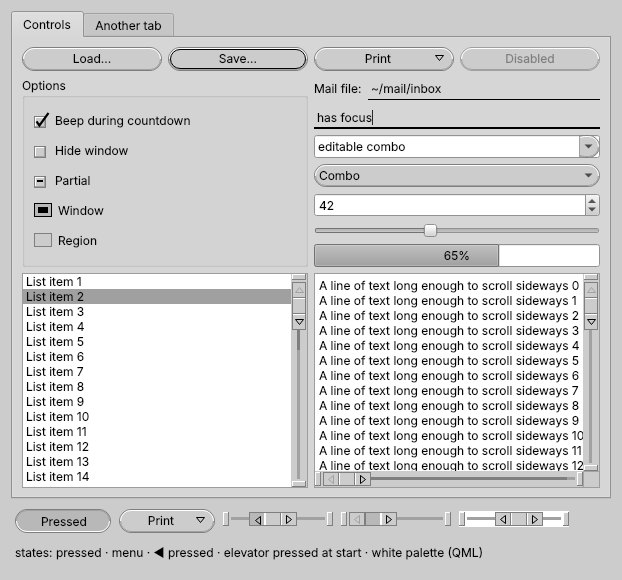
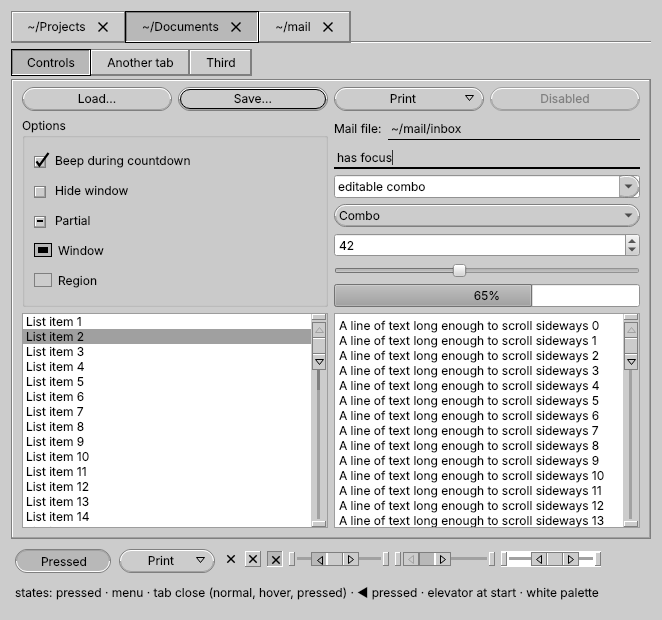
Tabs as OPEN LOOK exclusive settings

diff --git a/style/src/freelookstyle.cpp b/style/src/freelookstyle.cpp
@@ -11,6 +11,7 @@
 #include <QPainter>
 #include <QPainterPath>
 #include <QScrollBar>
+#include <QTabBar>
 #include <QStyleFactory>
 #include <QStyleOption>
 
@@ -25,6 +26,13 @@ constexpr int kAnchor = 6;             // length of the anchors at both ends
 constexpr int kAnchorGap = 2;          // gap between an anchor and the cable
 constexpr int kIndicator = 16;         // check box area (the check mark overflows inside it)
 constexpr int kCheckBox = 12;          // the check box itself
+constexpr int kTabGap = 3;             // gap between the tabs and the page below them
+
+bool isVerticalTab(QTabBar::Shape shape)
+{
+    return shape == QTabBar::RoundedWest || shape == QTabBar::RoundedEast
+        || shape == QTabBar::TriangularWest || shape == QTabBar::TriangularEast;
+}
 }
 
 FreeLookStyle::FreeLookStyle()
@@ -182,6 +190,44 @@ void FreeLookStyle::drawButton(const QStyleOptionButton *opt, QPainter *p) const
                    side, side * 0.6);
         triangle(p, tri, Qt::DownArrow, c.ink, sunken ? c.pressed : c.base);
     }
+}
+
+// ---------------------------------------------------------------------------- tabs
+//
+// OPEN LOOK had no tabs: property windows switched pages with a "Category"
+// menu button. FreeLook draws tabs as an OPEN LOOK exclusive setting, like
+// "Snap Type: [Window][Region][Screen]": raised rectangles side by side,
+// sharing a single line, and the current one sunken with a black outline.
+// The page sits in a plain frame a few pixels below, not attached to the tab.
+
+void FreeLookStyle::drawTab(const QStyleOptionTab *opt, QPainter *p) const
+{
+    const bool enabled = opt->state & State_Enabled;
+    const Colors c = colors(opt->palette, enabled);
+    const bool selected = opt->state & State_Selected;
+    const bool vertical = isVerticalTab(opt->shape);
+    QRect r = opt->rect;
+
+    // Every tab but the first steps 1 px over the previous one, so neighbors
+    // share a single line. The current tab is painted last, on top.
+    const bool first = opt->position == QStyleOptionTab::Beginning
+                    || opt->position == QStyleOptionTab::OnlyOneTab;
+    if (!first) {
+        if (vertical) {
+            r.adjust(0, -1, 0, 0);
+        } else if (opt->direction == Qt::RightToLeft) {
+            r.adjust(0, 0, 1, 0);
+        } else {
+            r.adjust(-1, 0, 0, 0);
+        }
+    }
+
+    box3D(p, r.adjusted(1, 1, -1, -1), c, selected);
+    p->save();
+    p->setPen(selected && enabled ? c.ink : (enabled ? c.dark : c.softShadow));
+    p->setBrush(Qt::NoBrush);
+    p->drawRect(r.adjusted(0, 0, -1, -1));
+    p->restore();
 }
 
 // ---------------------------------------------------------------------------- elevator scroll bar
@@ -371,6 +417,60 @@ void FreeLookStyle::drawPrimitive(PrimitiveElement element, const QStyleOption *
         return;
     }
 
+    case PE_FrameTabWidget: {
+        // The page under the tabs: a plain raised frame.
+        const bool enabled = option->state & State_Enabled;
+        const Colors c = colors(option->palette, enabled);
+        const QRect r = option->rect;
+        painter->save();
+        painter->setPen(enabled ? c.dark : c.softShadow);
+        painter->setBrush(Qt::NoBrush);
+        painter->drawRect(r.adjusted(0, 0, -1, -1));
+        painter->restore();
+        bevel(painter, r.adjusted(1, 1, -1, -1), c.light, c.softShadow);
+        return;
+    }
+
+    case PE_FrameTabBarBase: {
+        // Document-mode tab bars (Dolphin, Konsole): an etched line between
+        // the tabs and the content.
+        const auto *base = qstyleoption_cast<const QStyleOptionTabBarBase *>(option);
+        const Colors c = colors(option->palette);
+        const QRect r = option->rect;
+        if (base && !isVerticalTab(base->shape)) {
+            const bool south = base->shape == QTabBar::RoundedSouth || base->shape == QTabBar::TriangularSouth;
+            const int y = south ? r.top() : r.bottom() - 1;
+            painter->fillRect(QRect(r.left(), y, r.width(), 1), c.dark);
+            painter->fillRect(QRect(r.left(), y + 1, r.width(), 1), c.light);
+        }
+        return;
+    }
+
+    case PE_IndicatorTabClose: {
+        // A thin black "x", without color. It gets the raised 3D box only
+        // under the mouse, and sinks while pressed, like the title bar buttons.
+        const bool enabled = option->state & State_Enabled;
+        const Colors c = colors(option->palette, enabled);
+        const QRect r = option->rect;
+        const int side = std::min(r.width(), r.height());
+        QRect box(0, 0, side, side);
+        box.moveCenter(r.center());
+        const bool pressed = option->state & State_Sunken;
+        if (enabled && (pressed || (option->state & State_MouseOver))) {
+            box3D(painter, box, c, pressed);
+        }
+        const qreal inset = std::max(3.5, side * 0.3);
+        const QRectF x = QRectF(box).adjusted(inset, inset, -inset, -inset)
+                             .translated(pressed ? 1 : 0, pressed ? 1 : 0);
+        painter->save();
+        painter->setRenderHint(QPainter::Antialiasing, true);
+        painter->setPen(QPen(enabled ? c.ink : c.softShadow, 1.4));
+        painter->drawLine(x.topLeft(), x.bottomRight());
+        painter->drawLine(x.topRight(), x.bottomLeft());
+        painter->restore();
+        return;
+    }
+
     case PE_IndicatorCheckBox: {
         // Raised little box; the check mark overflows up and to the right.
         const bool enabled = option->state & State_Enabled;
@@ -430,6 +530,12 @@ void FreeLookStyle::drawPrimitive(PrimitiveElement element, const QStyleOption *
 void FreeLookStyle::drawControl(ControlElement element, const QStyleOption *option,
                                 QPainter *painter, const QWidget *widget) const
 {
+    if (element == CE_TabBarTabShape) {
+        if (const auto *tab = qstyleoption_cast<const QStyleOptionTab *>(option)) {
+            drawTab(tab, painter);
+            return;
+        }
+    }
     if (element == CE_PushButtonBevel) {
         if (const auto *b = qstyleoption_cast<const QStyleOptionButton *>(option)) {
             if (!(b->features & QStyleOptionButton::Flat) || (b->state & (State_Sunken | State_On))) {
@@ -464,10 +570,40 @@ QRect FreeLookStyle::subControlRect(ComplexControl control, const QStyleOptionCo
     return QProxyStyle::subControlRect(control, option, subControl, widget);
 }
 
+QRect FreeLookStyle::subElementRect(SubElement element, const QStyleOption *option,
+                                    const QWidget *widget) const
+{
+    QRect r = QProxyStyle::subElementRect(element, option, widget);
+    if (element == SE_TabWidgetTabPane) {
+        // Leave a small gap between the row of tabs and the page.
+        if (const auto *tw = qstyleoption_cast<const QStyleOptionTabWidgetFrame *>(option)) {
+            switch (tw->shape) {
+            case QTabBar::RoundedNorth: case QTabBar::TriangularNorth: r.adjust(0, kTabGap, 0, 0); break;
+            case QTabBar::RoundedSouth: case QTabBar::TriangularSouth: r.adjust(0, 0, 0, -kTabGap); break;
+            case QTabBar::RoundedWest:  case QTabBar::TriangularWest:  r.adjust(kTabGap, 0, 0, 0); break;
+            case QTabBar::RoundedEast:  case QTabBar::TriangularEast:  r.adjust(0, 0, -kTabGap, 0); break;
+            }
+        }
+    }
+    return r;
+}
+
 QSize FreeLookStyle::sizeFromContents(ContentsType type, const QStyleOption *option,
                                       const QSize &size, const QWidget *widget) const
 {
     QSize s = QProxyStyle::sizeFromContents(type, option, size, widget);
+    if (type == CT_TabBarTab) {
+        // A little more air around the label, like the exclusive settings.
+        if (const auto *tab = qstyleoption_cast<const QStyleOptionTab *>(option)) {
+            if (isVerticalTab(tab->shape)) {
+                s.setHeight(s.height() + 8);
+                s.setWidth(std::max(s.width(), 24));
+            } else {
+                s.setWidth(s.width() + 8);
+                s.setHeight(std::max(s.height(), 24));
+            }
+        }
+    }
     if (type == CT_PushButton) {
         // Room for the half-circle ends.
         s.setHeight(std::max(s.height(), 24));
@@ -495,6 +631,11 @@ int FreeLookStyle::pixelMetric(PixelMetric metric, const QStyleOption *option, c
         return 18;
     case PM_ExclusiveIndicatorHeight:
         return 16;
+    case PM_TabBarTabShiftHorizontal:
+    case PM_TabBarTabShiftVertical:
+        return 0;   // all tabs on the same line, like exclusive settings
+    case PM_TabBarBaseOverlap:
+        return 0;
     case PM_ButtonShiftHorizontal:
     case PM_ButtonShiftVertical:
         return 1;

diff --git a/style/gallery/gallery.cpp b/style/gallery/gallery.cpp
@@ -30,6 +30,7 @@
 #include <QStyle>
 #include <QStyleFactory>
 #include <QStyleOption>
+#include <QTabBar>
 #include <QTabWidget>
 #include <QTextEdit>
 #include <QTimer>
@@ -41,7 +42,7 @@
 class States : public QWidget
 {
 public:
-    States() { setFixedSize(600, 64); }
+    States() { setFixedSize(640, 64); }
 
 protected:
     void paintEvent(QPaintEvent *) override
@@ -68,7 +69,7 @@ protected:
             o.orientation = Qt::Horizontal;
             o.minimum = 0; o.maximum = 100; o.pageStep = 30; o.singleStep = 1;
             o.sliderPosition = o.sliderValue = value;
-            o.rect = QRect(x, 6, 110, 16);
+            o.rect = QRect(x, 6, 100, 16);
             o.subControls = QStyle::SC_All;
             o.activeSubControls = active;
             if (whitePalette) {   // mimics Kirigami QML lists
@@ -77,13 +78,24 @@ protected:
             }
             if (active != QStyle::SC_None) o.state |= QStyle::State_Sunken;
             s->drawComplexControl(QStyle::CC_ScrollBar, &o, &p, this);
-            x += 118;
+            x += 106;
         };
+        auto tabClose = [&](QStyle::State extra) {
+            QStyleOption o;
+            o.initFrom(this);
+            o.state |= extra;
+            o.rect = QRect(x, 6, 16, 16);
+            s->drawPrimitive(QStyle::PE_IndicatorTabClose, &o, &p, this);
+            x += 22;
+        };
+        tabClose(QStyle::State_None);
+        tabClose(QStyle::State_MouseOver);
+        tabClose(QStyle::State_Sunken);
         bar(QStyle::SC_ScrollBarSubLine, 40);
         bar(QStyle::SC_ScrollBarSlider, 0);
         bar(QStyle::SC_None, 60, true);
-        p.drawText(QRect(4, 36, 592, 24), Qt::AlignLeft | Qt::AlignVCenter,
-                   QStringLiteral("states: pressed · menu · ◀ pressed · elevator pressed at start · white palette (QML)"));
+        p.drawText(QRect(4, 36, 632, 24), Qt::AlignLeft | Qt::AlignVCenter,
+                   QStringLiteral("states: pressed · menu · tab close (normal, hover, pressed) · ◀ pressed · elevator at start · white palette"));
     }
 };
 
@@ -180,6 +192,7 @@ int main(int argc, char **argv)
     auto *page = new QWidget;
     tabs->addTab(page, QStringLiteral("Controls"));
     tabs->addTab(new QWidget, QStringLiteral("Another tab"));
+    tabs->addTab(new QWidget, QStringLiteral("Third"));
     auto *grid = new QGridLayout(page);
 
     auto *buttons = new QHBoxLayout;
@@ -247,8 +260,19 @@ int main(int argc, char **argv)
     text->setPlainText(lines);
     grid->addWidget(text, 2, 1);
 
+    // Document-mode tab bar with close buttons, as in Dolphin and Konsole.
+    auto *documentTabs = new QTabBar;
+    documentTabs->setDocumentMode(true);
+    documentTabs->setTabsClosable(true);
+    documentTabs->setExpanding(false);
+    for (const char *name : {"~/Projects", "~/Documents", "~/mail"}) {
+        documentTabs->addTab(QString::fromLatin1(name));
+    }
+    documentTabs->setCurrentIndex(1);
+    root->insertWidget(0, documentTabs);
+
     root->addWidget(new States);
-    window.resize(620, 580);
+    window.resize(620, 620);
     window.show();
     focused->setFocus();
 

diff --git a/style/src/freelookstyle.h b/style/src/freelookstyle.h
@@ -14,6 +14,7 @@ class QPainter;
 class QPainterPath;
 class QStyleOptionButton;
 class QStyleOptionSlider;
+class QStyleOptionTab;
 
 class FreeLookStyle : public QProxyStyle
 {
@@ -33,6 +34,8 @@ public:
 
     QRect subControlRect(ComplexControl control, const QStyleOptionComplex *option,
                          SubControl subControl, const QWidget *widget = nullptr) const override;
+    QRect subElementRect(SubElement element, const QStyleOption *option,
+                         const QWidget *widget = nullptr) const override;
     QSize sizeFromContents(ContentsType type, const QStyleOption *option,
                            const QSize &size, const QWidget *widget = nullptr) const override;
     int pixelMetric(PixelMetric metric, const QStyleOption *option = nullptr,
@@ -58,6 +61,7 @@ private:
     static QPainterPath oblong(const QRectF &r);
 
     void drawButton(const QStyleOptionButton *opt, QPainter *p) const;
+    void drawTab(const QStyleOptionTab *opt, QPainter *p) const;
     void drawScrollBar(const QStyleOptionSlider *opt, QPainter *p) const;
     QRect scrollBarRect(const QStyleOptionSlider *opt, SubControl sc) const;
 };

diff --git a/LEIAME.md b/LEIAME.md
@@ -14,7 +14,7 @@ de 1991, rodando num Plasma moderno.
 | Peça | O que faz | Tecnologia |
 |---|---|---|
 | **Decoração de janela** | Borda fina com contorno preto, cantos de redimensionamento em L em relevo, botão de menu com triângulo vazado, título centralizado com separador entalhado, pushpin | Aurorae do KWin, QML |
-| **Estilo dos programas** | Botões oblongos com anel no botão padrão, setas vazadas, ✓ que transborda da caixinha, opções exclusivas retangulares, campos de texto sublinhados e a barra de rolagem **elevador** do OPEN LOOK | Plugin `QStyle` do Qt 6, C++ |
+| **Estilo dos programas** | Botões oblongos com anel no botão padrão, setas vazadas, ✓ que transborda da caixinha, opções exclusivas retangulares, abas desenhadas como opções exclusivas, campos de texto sublinhados e a barra de rolagem **elevador** do OPEN LOOK | Plugin `QStyle` do Qt 6, C++ |
 | **Estilo do Plasma** | Painel, menus, dicas e plasmoides com a moldura das janelas pop-up do OPEN LOOK, botões oblongos, seleção afundada | Tema SVG do Plasma |
 | **Esquema de cores** | A paleta do OpenWindows 3: `#cccccc`, `#b7b7b7`, `#a0a0a0` e branco | Esquema de cores do KDE |
 | **Tema global** | Aplica tudo isso de uma vez, inclusive a ordem dos botões da barra de título | Pacote de tema global do Plasma |
@@ -104,7 +104,7 @@ teste da decoração QML e os geradores do estilo do Plasma) estão no
 
 - A barra de rolagem dos pop-ups do Plasma é feita de peças SVG fixas, então
   ali as setas não ficam dentro do elevador. Nos programas, o elevador é completo.
-- Abas, spinbox, slider e os menus dos programas ainda usam o visual do Fusion.
+- Spinbox, slider e os menus dos programas ainda usam o visual do Fusion.
 - Interruptores, calendário e alguns outros widgets do Plasma ainda vêm do Breeze.
 - Programas em GTK precisam de um tema GTK separado.
 

diff --git a/README.md b/README.md
@@ -14,7 +14,7 @@ on a modern Plasma.
 | Component | What it does | Technology |
 |---|---|---|
 | **Window decoration** | Thin black-outlined border, raised L-shaped resize corners, window menu button with a hollow triangle, centered title with an etched separator, pushpin | KWin Aurorae, QML |
-| **Application style** | Oblong buttons with a default ring, hollow arrows, check marks that overflow their box, rectangular exclusive settings, underlined text fields, and the OPEN LOOK **elevator** scroll bar | Qt 6 `QStyle` plugin, C++ |
+| **Application style** | Oblong buttons with a default ring, hollow arrows, check marks that overflow their box, rectangular exclusive settings, tabs drawn as exclusive settings, underlined text fields, and the OPEN LOOK **elevator** scroll bar | Qt 6 `QStyle` plugin, C++ |
 | **Plasma style** | Panel, menus, tooltips and widgets with the OPEN LOOK pop-up window frame, oblong buttons, sunken selection | Plasma SVG theme |
 | **Color scheme** | The OpenWindows 3 palette: `#cccccc`, `#b7b7b7`, `#a0a0a0` and white | KDE color scheme |
 | **Global theme** | Applies all of the above in one click, including the title bar button layout | Plasma look-and-feel package |
@@ -144,7 +144,7 @@ files that are part of the project.
 
 - Plasma pop-up scroll bars are built from fixed SVG pieces, so their arrows
   cannot sit inside the elevator. Applications get the full elevator.
-- Tabs, spin boxes, sliders and application menus still use Fusion's look.
+- Spin boxes, sliders and application menus still use Fusion's look.
 - Switches, calendars and a few other Plasma widgets still come from Breeze.
 - GTK applications need a separate GTK theme.
 

diff --git a/CHANGELOG.md b/CHANGELOG.md
@@ -3,6 +3,15 @@
 FreeLook was built in a single long session on 2026-11-25, in small
 versions, each one tested on a real Plasma 6.8 session before the next.
 
+## 0.8 (in progress)
+
+- Tabs drawn as an OPEN LOOK exclusive setting: raised rectangles side by
+  side sharing a single line, the current one sunken with a black outline,
+  and the page in a plain frame just below. (OPEN LOOK itself had no tabs;
+  property windows used a "Category" menu button.)
+- Tab close button: a thin black "x" without color, which gets a raised box
+  under the mouse and sinks while pressed.
+
 ## 0.7
 
 - Global theme (`org.freelook.desktop`): applies the color scheme, the
